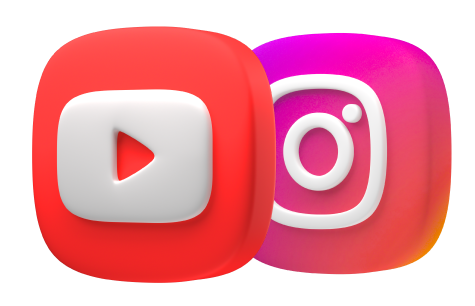
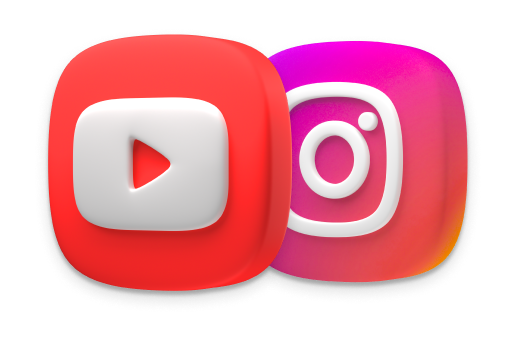
socialns action completed

diff --git a/assets/src/scss/layout/_social-action.scss b/assets/src/scss/layout/_social-action.scss
@@ -10,5 +10,18 @@
       @include font($roboto, $regular-weight, $p, $lh-text, $primary-white);
       margin-bottom: 15px;
     }
+    .social-buttons {
+      .btn {
+        margin-right: 15px;
+      }
+      .btn:last-child {
+        margin-right: 0;
+      }
+    }
+  }
+  .social-icons {
+    width: 475px;
+    max-width: 475px;
+    height: 306px;
   }
 }
